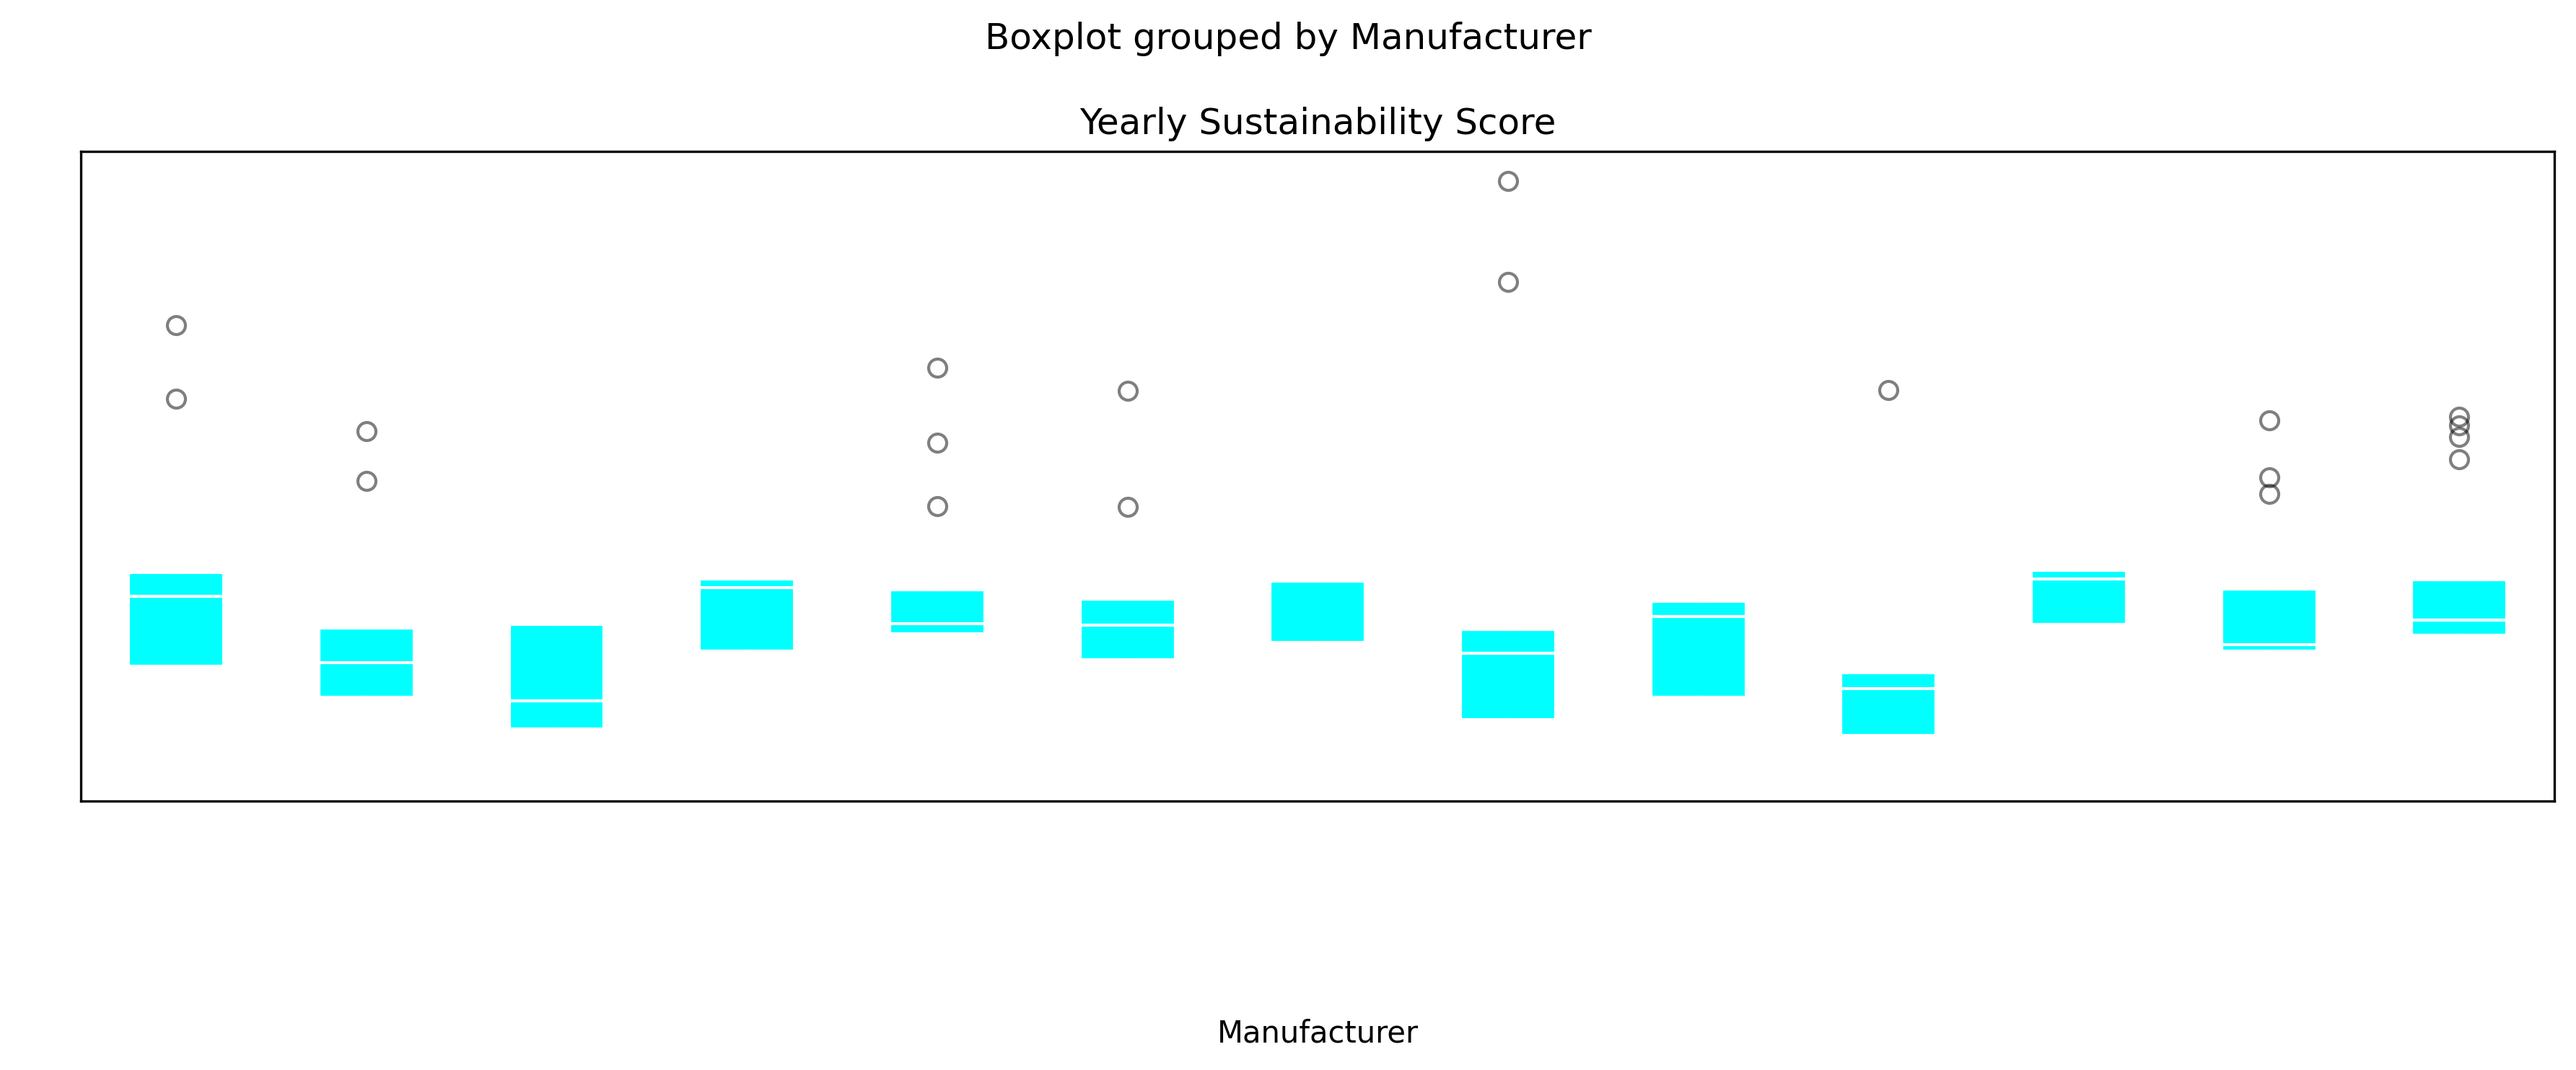
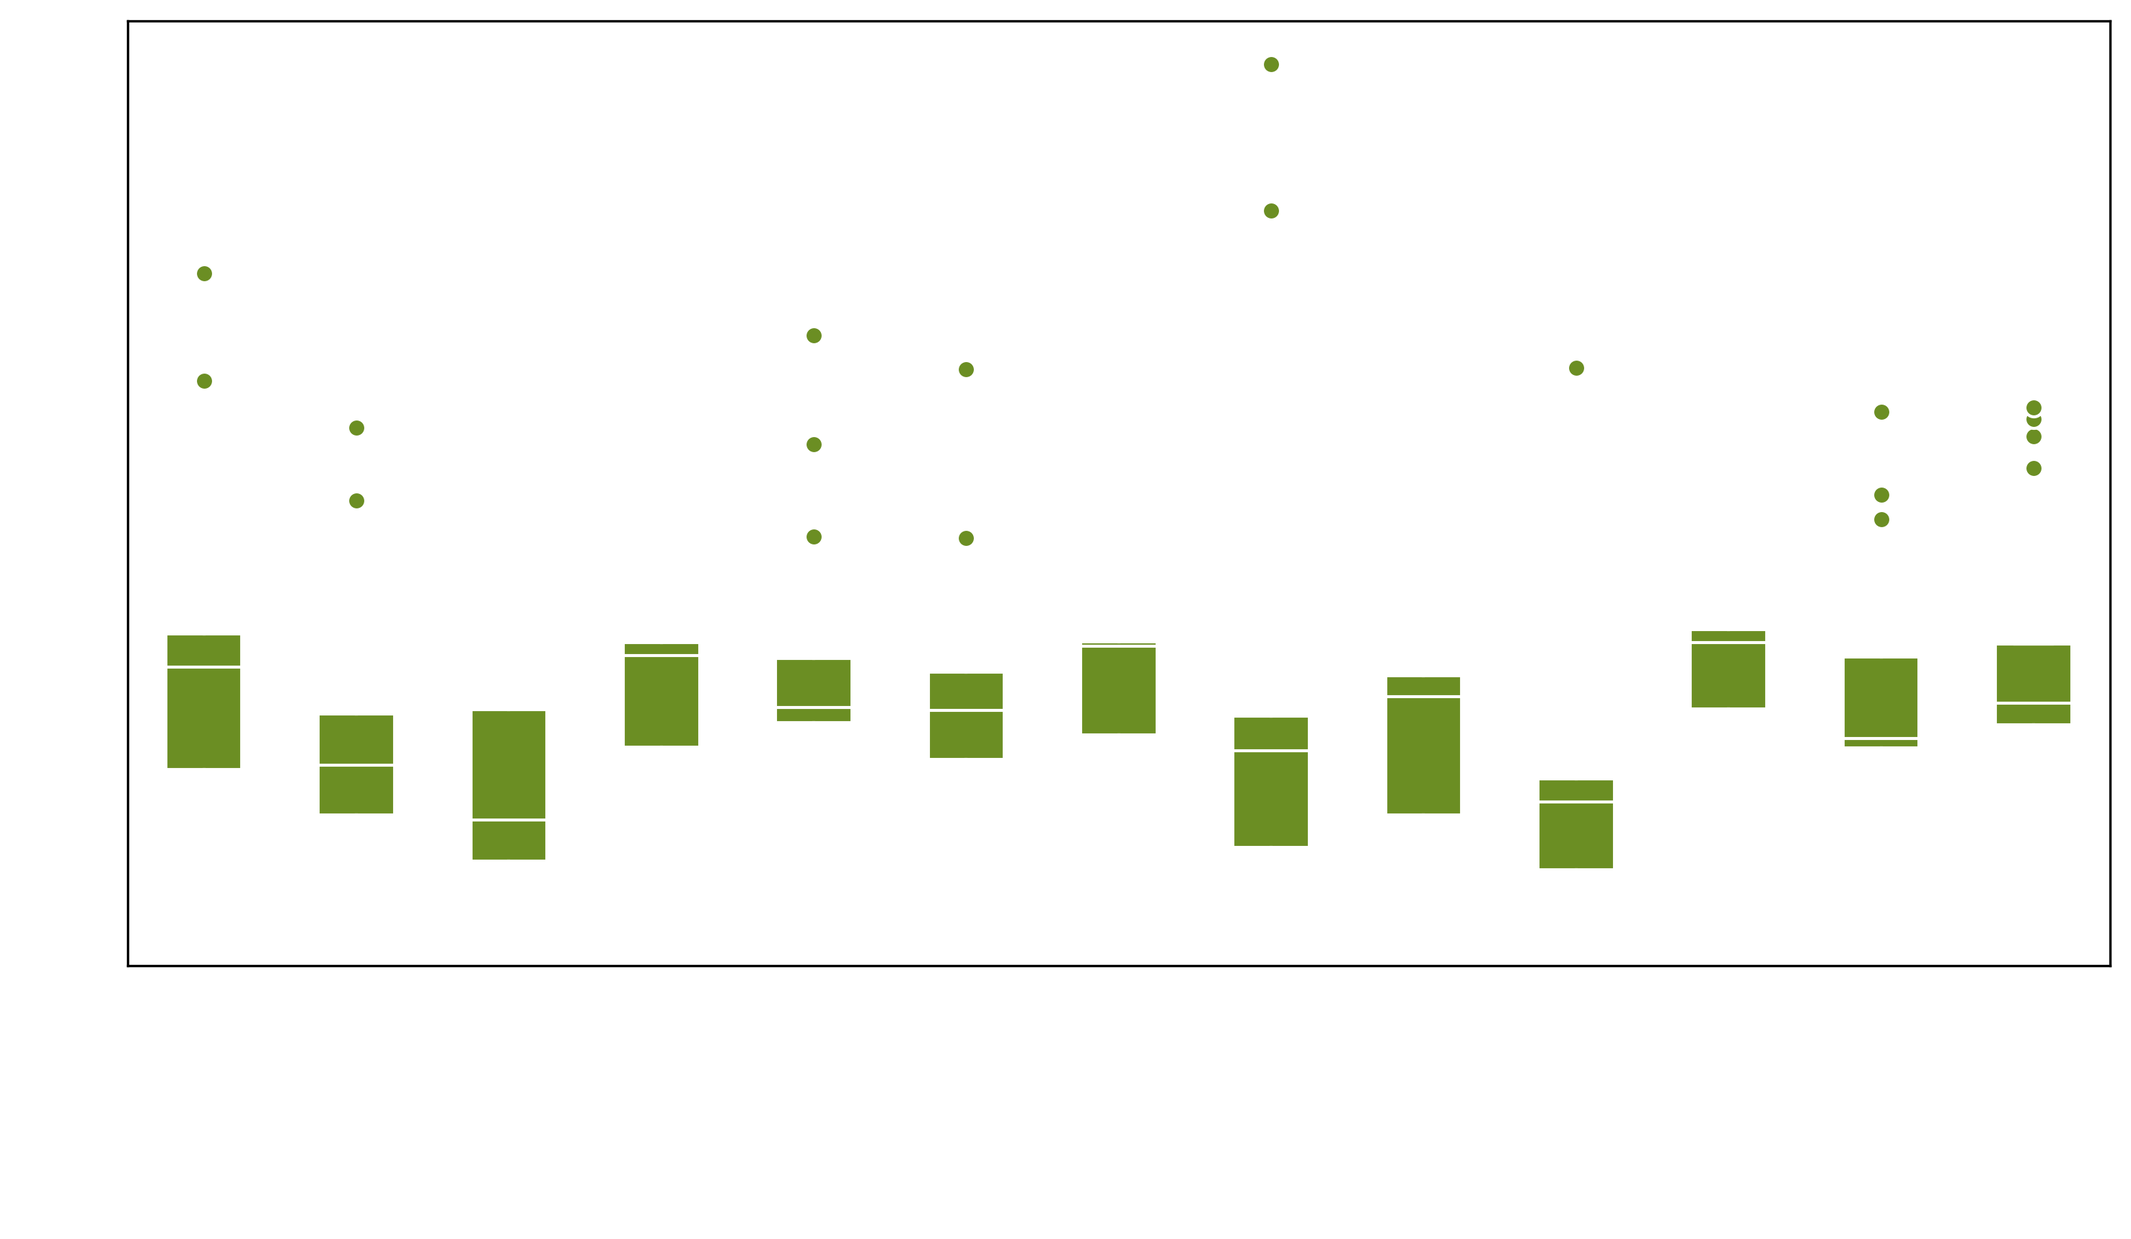
updates

diff --git a/src/manufacturer_advanced_visuals.py b/src/manufacturer_advanced_visuals.py
@@ -1,7 +1,12 @@
 import pandas as pd
 import os
+import seaborn as sns
 import matplotlib.pyplot as plt
+from matplotlib.cm import get_cmap
+from matplotlib.patches import Patch
+import numpy as np
 from random_forest_model import aggregated_scores
+from data_processing import specific_manufacturers_filtered
 
 # Exclude Tesla from the dataset
 aggregated_scores = aggregated_scores[aggregated_scores['Manufacturer'] != 'Tesla']
@@ -10,93 +15,235 @@ aggregated_scores = aggregated_scores[aggregated_scores['Manufacturer'] != 'Tesl
 plots_dir = "manufacturer_advanced_visuals"
 os.makedirs(plots_dir, exist_ok=True)
 
-# 1. **CO2 Reduction Rate Over Time (Bar Graph)**
-for manufacturer in aggregated_scores['Manufacturer'].unique():
-    data = aggregated_scores[aggregated_scores['Manufacturer'] == manufacturer]
-    data = data.sort_values(by='Model Year')
-    data['CO2 Reduction Rate (%)'] = data['Yearly Sustainability Score'].pct_change() * 100
+# # 1. **CO2 Reduction Rate Over Time (Bar Graph)**
+# for manufacturer in aggregated_scores['Manufacturer'].unique():
+#     data = aggregated_scores[aggregated_scores['Manufacturer'] == manufacturer]
+#     data = data.sort_values(by='Model Year')
+#     data['CO2 Reduction Rate (%)'] = data['Yearly Sustainability Score'].pct_change() * 100
 
-    fig, ax = plt.subplots(figsize=(12, 5))
-    ax.bar(
-        data['Model Year'],
-        data['CO2 Reduction Rate (%)'],
-        color='cyan',
-        edgecolor='white'
+#     fig, ax = plt.subplots(figsize=(12, 5))
+#     ax.bar(
+#         data['Model Year'],
+#         data['CO2 Reduction Rate (%)'],
+#         color='cyan',
+#         edgecolor='white'
+#     )
+#     ax.axhline(y=0, color='gray', linestyle='--', linewidth=0.5)
+#     ax.set_facecolor('none')  # Transparent background
+#     fig.patch.set_alpha(0)
+#     ax.set_xlabel("Year", fontsize=12, color='white')
+#     ax.set_ylabel("CO2 Reduction Rate (%)", fontsize=12, color='white')
+#     ax.tick_params(axis='x', colors='white', labelsize=10)
+#     ax.tick_params(axis='y', colors='white', labelsize=10)
+#     plt.tight_layout()
+#     fig.savefig(f"{plots_dir}/{manufacturer}_co2_reduction_rate.png", dpi=300, transparent=True, bbox_inches='tight')
+#     plt.close(fig)
+
+# # 2. **MPG Efficiency Growth Rate (Bar Graph)**
+# for manufacturer in aggregated_scores['Manufacturer'].unique():
+#     data = aggregated_scores[aggregated_scores['Manufacturer'] == manufacturer]
+#     data = data.sort_values(by='Model Year')
+#     data['MPG Growth Rate (%)'] = data['Yearly Sustainability Score'].pct_change() * 100
+
+#     fig, ax = plt.subplots(figsize=(12, 5))
+#     ax.bar(
+#         data['Model Year'],
+#         data['MPG Growth Rate (%)'],
+#         color='#228B22',  # Forest green
+#         edgecolor='white'
+#     )
+#     ax.axhline(y=0, color='gray', linestyle='--', linewidth=0.5)
+#     ax.set_facecolor('none')  # Transparent background
+#     fig.patch.set_alpha(0)
+#     ax.set_xlabel("Year", fontsize=12, color='white')
+#     ax.set_ylabel("MPG Growth Rate (%)", fontsize=12, color='white')
+#     ax.tick_params(axis='x', colors='white', labelsize=10)
+#     ax.tick_params(axis='y', colors='white', labelsize=10)
+#     plt.tight_layout()
+#     fig.savefig(f"{plots_dir}/{manufacturer}_mpg_growth_rate.png", dpi=300, transparent=True, bbox_inches='tight')
+#     plt.close(fig)
+
+# # 3. **Sustainability Growth Over Time (Line Graph for Each Manufacturer)**
+# # **Sustainability Growth Over Time (All Manufacturers in One Graph)**
+# import matplotlib.pyplot as plt
+# from matplotlib.cm import get_cmap
+
+# # Generate a colormap to assign a distinct color to each manufacturer
+# unique_manufacturers = aggregated_scores['Manufacturer'].unique()
+# cmap = plt.get_cmap('tab20', len(unique_manufacturers))  # Use updated get_cmap
+# color_map = {manufacturer: cmap(i) for i, manufacturer in enumerate(unique_manufacturers)}
+
+# fig, ax = plt.subplots(figsize=(12, 6))  # Wide layout
+
+# for manufacturer in unique_manufacturers:
+#     data = aggregated_scores[aggregated_scores['Manufacturer'] == manufacturer]
+#     data = data.sort_values(by='Model Year')
+    
+#     ax.plot(
+#         data['Model Year'],
+#         data['Yearly Sustainability Score'],
+#         marker='o',
+#         color=color_map[manufacturer],  # Assign a distinct color from the colormap
+#         label=manufacturer  # Add manufacturer to legend
+#     )
+
+# # Graph aesthetic adjustments
+# ax.set_facecolor('none')  # Transparent background
+# fig.patch.set_alpha(0)
+# ax.set_xlabel("Year", fontsize=12, color='white')  # No bold axis titles
+# ax.set_ylabel("Sustainability Score", fontsize=12, color='white')  # Axis title exists
+# ax.tick_params(axis='x', colors='white', labelsize=10)
+# ax.tick_params(axis='y', colors='white', labelsize=10)
+
+# # Adding a nice rounded legend with white font
+# legend = ax.legend(
+#     loc="upper left",
+#     fontsize=10,
+#     frameon=True,
+#     facecolor='none',  # Transparent background for the legend
+#     edgecolor='white'
+# )
+
+# # Adjust font color in legend manually
+# for text in legend.get_texts():
+#     text.set_color('white')
+
+# legend.get_frame().set_linewidth(0.8)
+
+# # Save the plot
+# plt.tight_layout()
+# fig.savefig(f"{plots_dir}/all_manufacturers_sustainability_growth_updated.png", dpi=300, transparent=True, bbox_inches='tight')
+# plt.close(fig)
+
+# # 4. **Comparative Boxplot for Sustainability Scores**
+# fig, ax = plt.subplots(figsize=(10, 6))  # Adjusted dimensions
+# aggregated_scores.boxplot(
+#     by='Manufacturer',
+#     column=['Yearly Sustainability Score'],
+#     grid=False,
+#     patch_artist=True,
+#     boxprops=dict(facecolor='#6B8E23', color='white'),  # Updated face color
+#     medianprops=dict(color='white'),
+#     whiskerprops=dict(color='white'),
+#     capprops=dict(color='white'),
+#     flierprops=dict(marker='o', markerfacecolor='#6B8E23', markeredgecolor='white', markersize=6),  # Ensure flier visibility
+#     ax=ax
+# )
+# ax.set_facecolor('none')  # Transparent background
+# fig.patch.set_alpha(0)
+
+# # Add x-axis and y-axis titles with white color
+# ax.set_xlabel("Manufacturer", fontsize=12, color='white')  # Explicitly set x-axis title
+# ax.set_ylabel("Yearly Sustainability Score", fontsize=12, color='white')  # Add y-axis title
+
+# # Customize tick parameters
+# ax.tick_params(axis='x', colors='white', labelsize=10, rotation=45)
+# ax.tick_params(axis='y', colors='white', labelsize=10)
+
+# # Remove default Matplotlib titles
+# ax.set_title("")
+# plt.suptitle("")
+
+# plt.tight_layout()
+# fig.savefig(f"{plots_dir}/comparative_sustainability_boxplot.png", dpi=300, transparent=True, bbox_inches='tight')
+# plt.close(fig)
+
+# 5. **Powertrain Pie Chart for Each Manufacturer**
+# Replace Manufacturer names in the specific_manufacturers_filtered DataFrame to their full-form names
+specific_manufacturers_filtered['Manufacturer'] = specific_manufacturers_filtered['Manufacturer'].replace({
+    'VW': 'Volkswagen',
+    'GM': 'General Motors'
+})
+
+# Clean the powertrain columns
+powertrain_columns = [
+    'Powertrain - Diesel', 
+    'Powertrain - Battery Electric Vehicle (BEV)',
+    'Powertrain - Plug-in Hybrid Electric Vehicle (PHEV)',
+    'Powertrain - Fuel Cell Electric Vehicle (FCEV)',
+    'Powertrain - Other (incl. CNG)',
+    'Powertrain - Gasoline Mild Hybrid/MHEV',
+    'Powertrain - Gasoline Strong Hybrid/HEV',
+    'Powertrain - Gasoline with Start/Stop',
+    'Powertrain - Gasoline without Start/Stop'
+]
+
+for powertrain in powertrain_columns:
+    specific_manufacturers_filtered[powertrain] = specific_manufacturers_filtered[powertrain].replace('-', 0)
+    specific_manufacturers_filtered[powertrain] = specific_manufacturers_filtered[powertrain].astype(str)
+    
+    # Detect if value is a percentage and convert to decimal
+    specific_manufacturers_filtered[powertrain] = specific_manufacturers_filtered[powertrain].apply(
+        lambda x: float(x.strip('%')) / 100 if '%' in x else float(x)
     )
-    ax.axhline(y=0, color='gray', linestyle='--', linewidth=0.5)
-    ax.set_facecolor('none')  # Transparent background
-    fig.patch.set_alpha(0)
-    ax.set_xlabel("Year", fontsize=12, color='white')
-    ax.set_ylabel("CO2 Reduction Rate (%)", fontsize=12, color='white')
-    ax.tick_params(axis='x', colors='white', labelsize=10)
-    ax.tick_params(axis='y', colors='white', labelsize=10)
-    plt.tight_layout()
-    fig.savefig(f"{plots_dir}/{manufacturer}_co2_reduction_rate.png", dpi=300, transparent=True, bbox_inches='tight')
-    plt.close(fig)
 
-# 2. **MPG Efficiency Growth Rate (Bar Graph)**
-for manufacturer in aggregated_scores['Manufacturer'].unique():
-    data = aggregated_scores[aggregated_scores['Manufacturer'] == manufacturer]
-    data = data.sort_values(by='Model Year')
-    data['MPG Growth Rate (%)'] = data['Yearly Sustainability Score'].pct_change() * 100
+# Define colors for powertrain categories
+powertrain_colors = {
+    'Powertrain - Diesel': '#ff9999',
+    'Powertrain - Battery Electric Vehicle (BEV)': '#66b3ff',
+    'Powertrain - Plug-in Hybrid Electric Vehicle (PHEV)': '#99ff99',
+    'Powertrain - Fuel Cell Electric Vehicle (FCEV)': '#ffcc99',
+    'Powertrain - Other (incl. CNG)': '#c2c2f0',
+    'Powertrain - Gasoline Mild Hybrid/MHEV': '#ffb3e6',
+    'Powertrain - Gasoline Strong Hybrid/HEV': '#c2f0c2',
+    'Powertrain - Gasoline with Start/Stop': '#ff6666',
+    'Powertrain - Gasoline without Start/Stop': '#c2c2c2',
+}
 
-    fig, ax = plt.subplots(figsize=(12, 5))
-    ax.bar(
-        data['Model Year'],
-        data['MPG Growth Rate (%)'],
-        color='#228B22',  # Forest green
-        edgecolor='white'
-    )
-    ax.axhline(y=0, color='gray', linestyle='--', linewidth=0.5)
-    ax.set_facecolor('none')  # Transparent background
-    fig.patch.set_alpha(0)
-    ax.set_xlabel("Year", fontsize=12, color='white')
-    ax.set_ylabel("MPG Growth Rate (%)", fontsize=12, color='white')
-    ax.tick_params(axis='x', colors='white', labelsize=10)
-    ax.tick_params(axis='y', colors='white', labelsize=10)
-    plt.tight_layout()
-    fig.savefig(f"{plots_dir}/{manufacturer}_mpg_growth_rate.png", dpi=300, transparent=True, bbox_inches='tight')
-    plt.close(fig)
+# # Filter for 2024 data
+# specific_2024 = specific_manufacturers_filtered[specific_manufacturers_filtered['Model Year'] == 2024]
 
-# 3. **Top Manufacturers in Sustainability Efforts**
-cumulative_improvement = aggregated_scores.groupby('Manufacturer')['Yearly Sustainability Score'].sum().sort_values()
-fig, ax = plt.subplots(figsize=(12, 5))
-ax.barh(
-    cumulative_improvement.index,
-    cumulative_improvement.values,
-    color='cyan',
-    edgecolor='white'
-)
-ax.set_facecolor('none')  # Transparent background
-fig.patch.set_alpha(0)
-ax.set_xlabel("Cumulative Improvement", fontsize=12, color='white')
-ax.set_ylabel("Manufacturer", fontsize=12, color='white')
-ax.tick_params(axis='x', colors='white', labelsize=10)
-ax.tick_params(axis='y', colors='white', labelsize=10)
-plt.tight_layout()
-fig.savefig(f"{plots_dir}/top_sustainability_efforts.png", dpi=300, transparent=True, bbox_inches='tight')
-plt.close(fig)
+# for manufacturer in specific_2024['Manufacturer'].unique():
+#     # Filter rows for the specific manufacturer
+#     manufacturer_data = specific_2024[specific_2024['Manufacturer'] == manufacturer]
 
-# 4. **Comparative Boxplot for Sustainability Scores**
-fig, ax = plt.subplots(figsize=(12, 5))
-aggregated_scores.boxplot(
-    by='Manufacturer',
-    column=['Yearly Sustainability Score'],
-    grid=False,
-    patch_artist=True,
-    boxprops=dict(facecolor='cyan', color='white'),
-    medianprops=dict(color='white'),
-    whiskerprops=dict(color='white'),
-    capprops=dict(color='white'),
-    flierprops=dict(marker='o', color='white', alpha=0.5),
-    ax=ax
-)
-ax.set_facecolor('none')  # Transparent background
-fig.patch.set_alpha(0)
-ax.tick_params(axis='x', colors='white', labelsize=10, rotation=45)
-ax.tick_params(axis='y', colors='white', labelsize=10)
-plt.tight_layout()
-fig.savefig(f"{plots_dir}/comparative_sustainability_boxplot.png", dpi=300, transparent=True, bbox_inches='tight')
-plt.close(fig)
+#     # Aggregate the powertrain columns by summing
+#     powertrain_distribution = manufacturer_data[powertrain_columns].sum()
+
+#     # Normalize the distribution to ensure it sums to 1
+#     powertrain_distribution = powertrain_distribution / powertrain_distribution.sum()
+
+#     # Generate labels for the legend including percentages
+#     legend_labels = [
+#         f"{category} - {percentage:.1%}"
+#         for category, percentage in zip(powertrain_distribution.index, powertrain_distribution.values)
+#     ]
+
+#     # Plot the pie chart
+#     fig, ax = plt.subplots(figsize=(12, 6))  # Adjusted size for aesthetics
+#     wedges, texts = ax.pie(
+#         powertrain_distribution,
+#         colors=[powertrain_colors[col] for col in powertrain_distribution.index],
+#         startangle=90,  # Starts at the top
+#         wedgeprops=dict(width=1.0)  # Full-filled pie
+#     )
+
+#     # Add legend on the right side of the chart with percentage values
+#     legend_elements = [
+#         Patch(facecolor=powertrain_colors[col], label=label)
+#         for col, label in zip(powertrain_distribution.index, legend_labels)
+#     ]
+#     ax.legend(
+#         handles=legend_elements,
+#         loc='center left',
+#         bbox_to_anchor=(1.2, 0.5),  # Adjusted spacing for bigger legend
+#         frameon=False,
+#         fontsize=11,  # Increased font size by ~15–20%
+#         labelcolor='white',
+#     )
+
+#     # Remove the title
+#     fig.patch.set_alpha(0)  # Transparent background
+#     ax.set_facecolor('none')  # Transparent face color
+
+#     # Save the pie chart
+#     plt.tight_layout()
+#     fig.savefig(
+#         f"{plots_dir}/{manufacturer}_powertrain_pie_chart.png",
+#         dpi=300,
+#         transparent=True,
+#         bbox_inches='tight',
+#     )
+#     plt.close(fig)
 
 print("All advanced visuals have been successfully updated.")

diff --git a/pages/1_📊_Manufacturer_Analysis.py b/pages/1_📊_Manufacturer_Analysis.py
@@ -91,6 +91,46 @@ with col2:
         unsafe_allow_html=True
     )
 
+# Display CO2 reduction rate plot with description box
+st.subheader("CO2 Reduction Rate Over Time")
+col1, col2 = st.columns([2, 0.8])
+with col1:
+    if os.path.exists(co2_reduction_rate_path):
+        st.image(co2_reduction_rate_path, width=1200)
+    else:
+        st.error(f"Plot not found: {co2_reduction_rate_path}")
+with col2:
+    st.markdown(
+        """
+        <div>
+            <p style="font-size: 20px; line-height: 2.0;">
+                This graph shows the real-world (not under testing conditions) MPG from the cars of these manufacturers. This gives insights into these cars' efficiency, and how many miles they are going per gallon consumed.
+            </p>
+        </div>
+        """,
+        unsafe_allow_html=True
+    )
+
+# Display MPG growth rate plot with description box
+st.subheader("MPG Growth Rate Over Time")
+col1, col2 = st.columns([2, 0.8])
+with col1:
+    if os.path.exists(mpg_growth_rate_path):
+        st.image(mpg_growth_rate_path, width=1200)
+    else:
+        st.error(f"Plot not found: {mpg_growth_rate_path}")
+with col2:
+    st.markdown(
+        """
+        <div>
+            <p style="font-size: 20px; line-height: 2.0;">
+                This graph shows the real-world (not under testing conditions) MPG from the cars of these manufacturers. This gives insights into these cars' efficiency, and how many miles they are going per gallon consumed.
+            </p>
+        </div>
+        """,
+        unsafe_allow_html=True
+    )
+
 # AI Tool for Online Sentiment Analysis
 sustainability_score = aggregated_scores[
     (aggregated_scores["Manufacturer"] == selected_manufacturer) &

diff --git a/🗂_Home_Page.py b/🗂_Home_Page.py
@@ -47,8 +47,8 @@ except FileNotFoundError:
     st.error(f"Unable to load image at {boxplot_path}")
 
 # Display Top Sustainability Efforts
-st.subheader("Top Sustainability Efforts by Manufacturers")
-top_efforts_path = "manufacturer_advanced_visuals/top_sustainability_efforts.png"
+st.subheader("All Manufacturers Sustainability Growth")
+top_efforts_path = "manufacturer_advanced_visuals/all_manufacturers_sustainability_growth_updated.png"
 try:
     top_efforts_img = Image.open(top_efforts_path)
     st.image(top_efforts_img, caption="Top Sustainability Efforts by Manufacturers", use_container_width=True)
